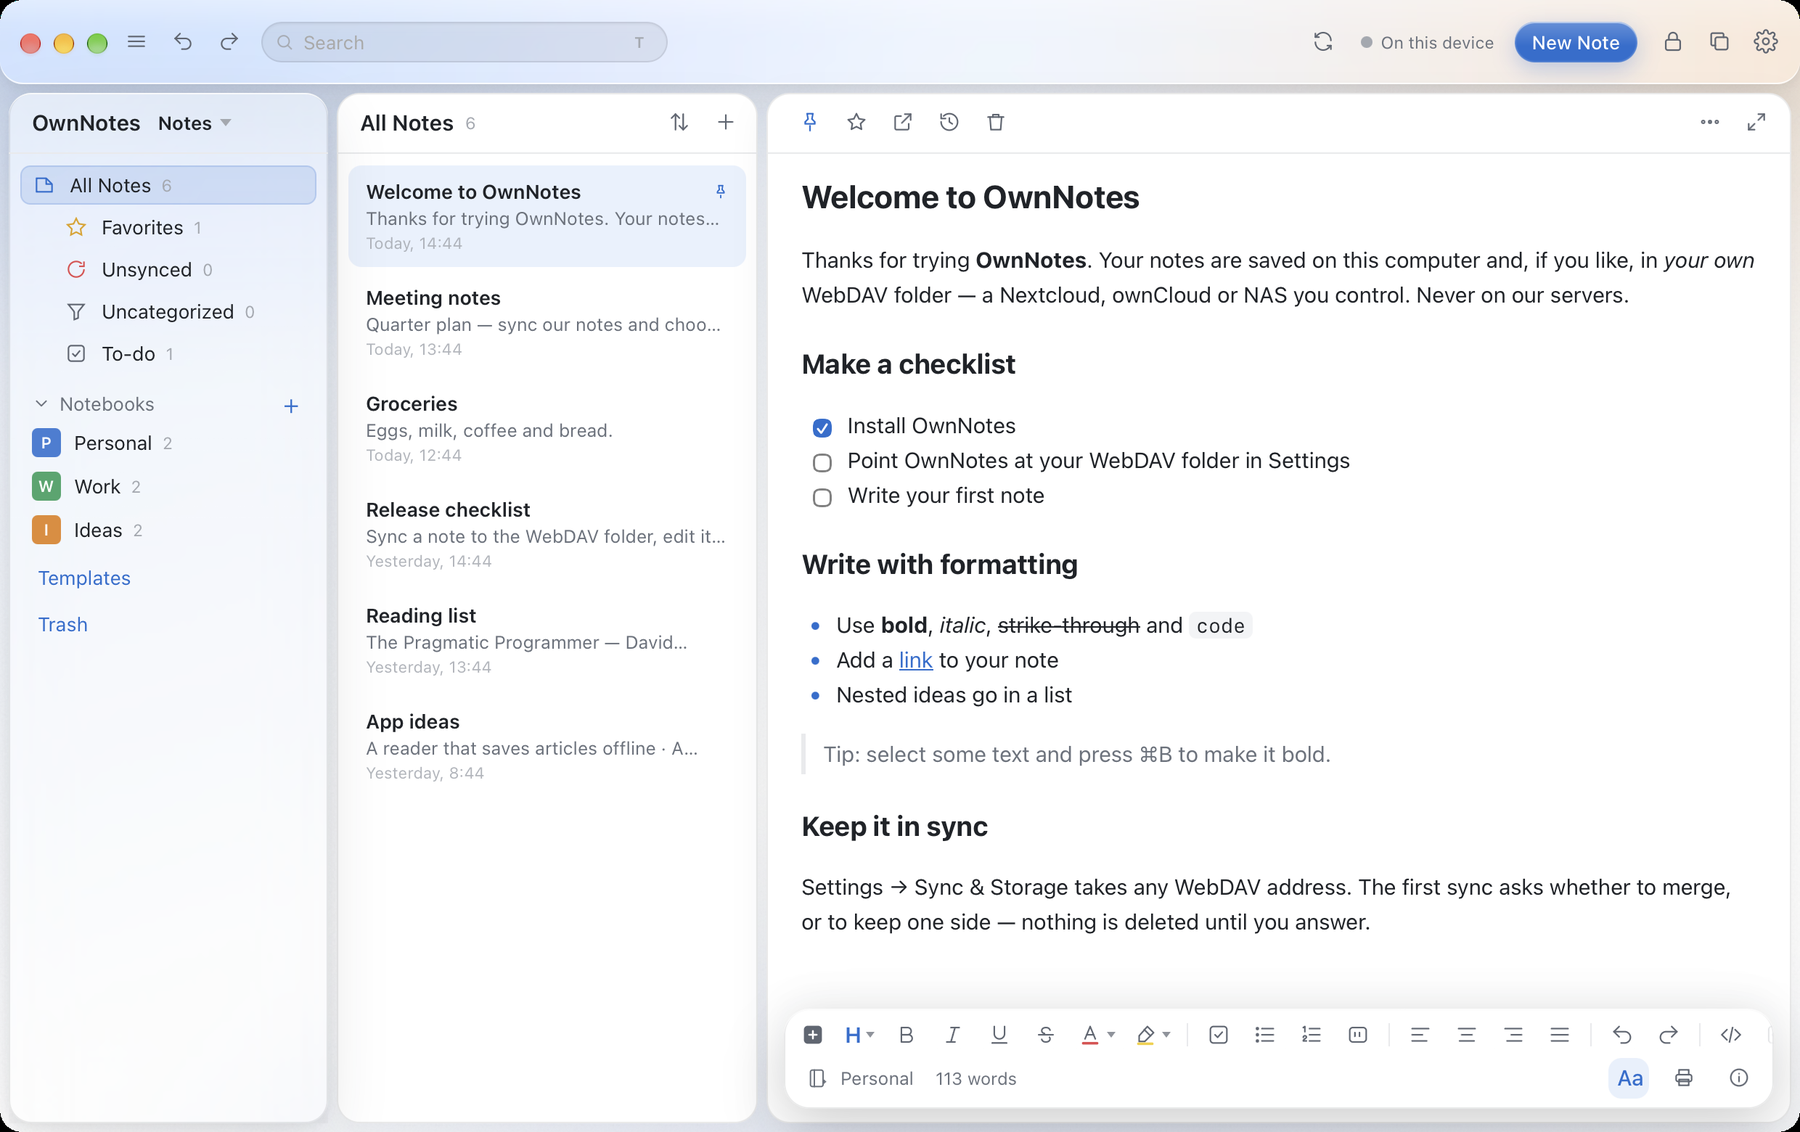
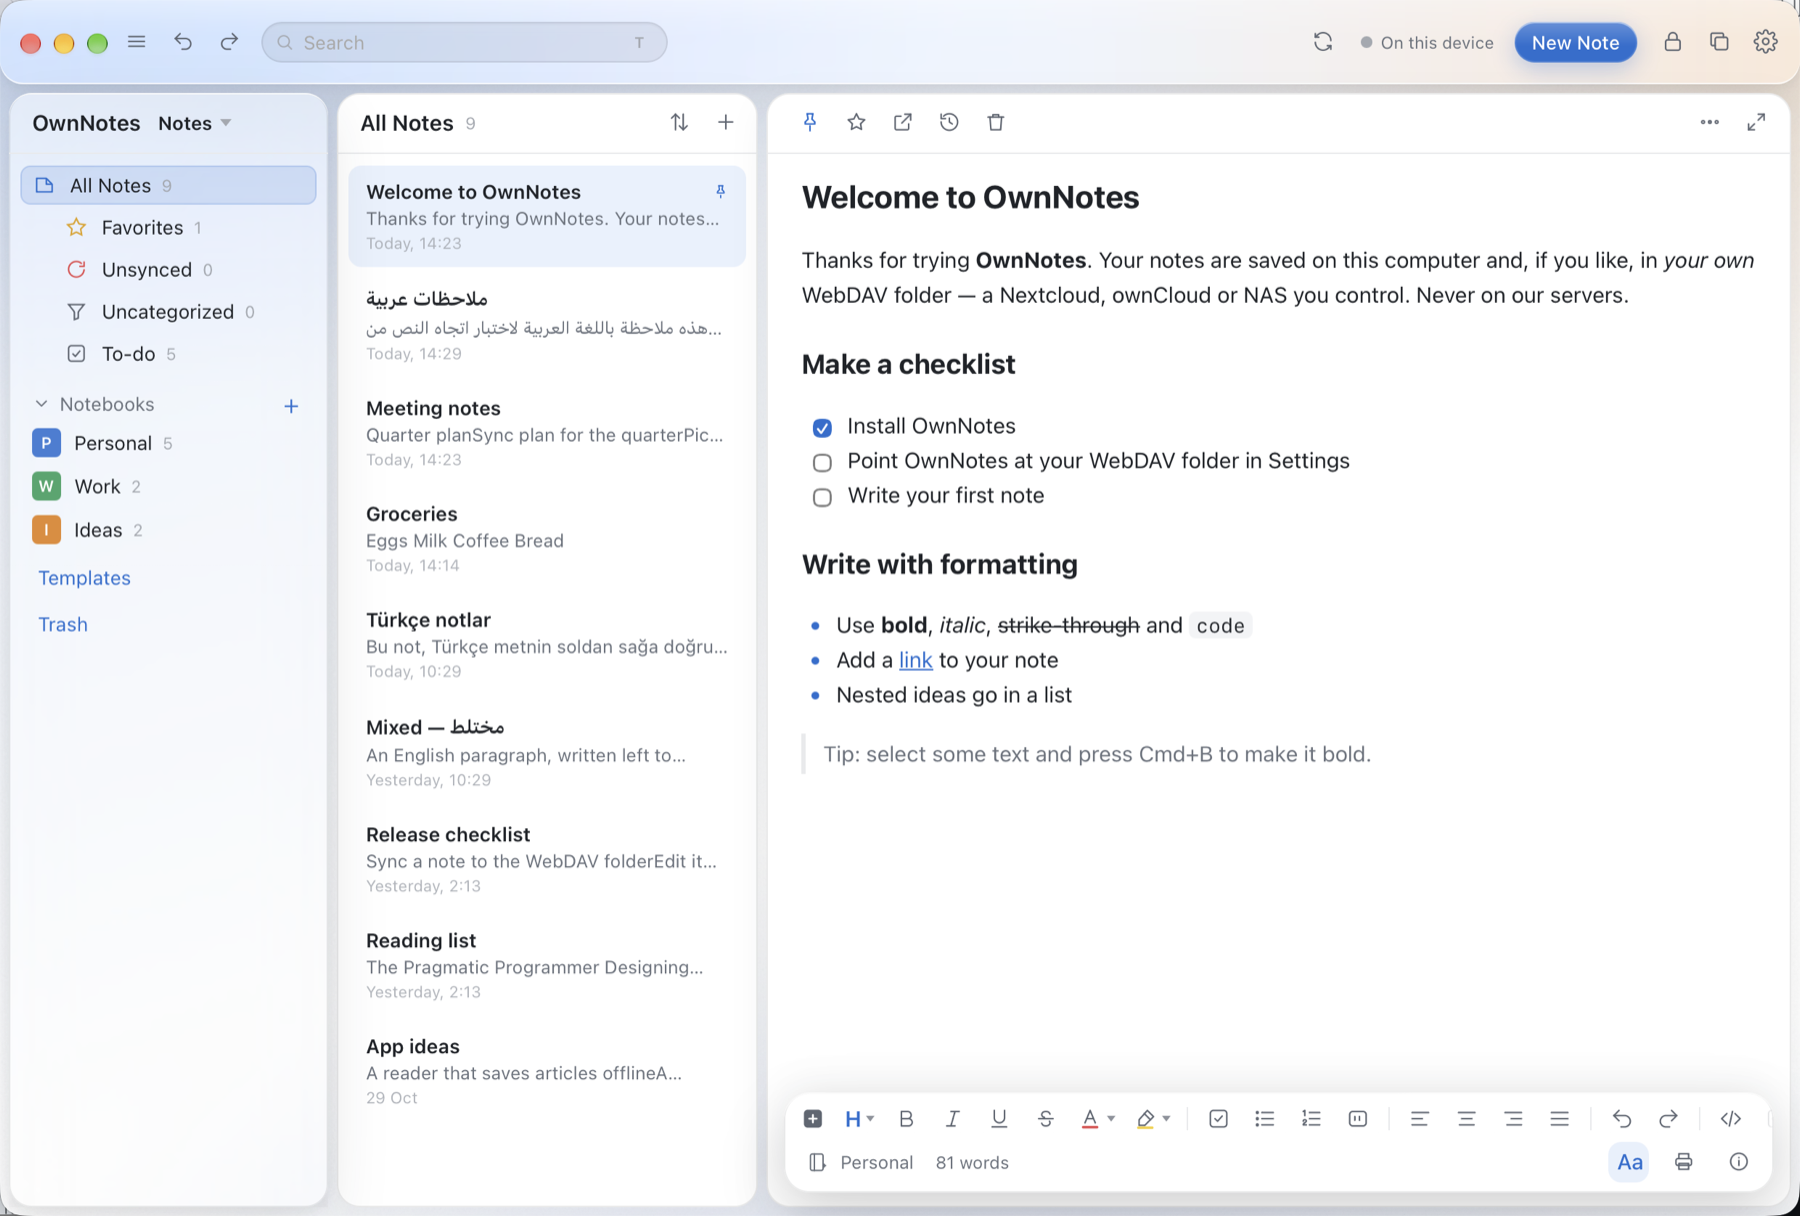
Refresh README with desktop and mobile screenshots
Add current iOS and Android captures, refresh the desktop capture with the
same nine sample notes, document the mobile apps and platform support, and
drop the left-to-right column from the language section. Update the test
count, build instructions, project layout and desktop-only tool notes.

diff --git a/README.md b/README.md
@@ -6,11 +6,16 @@
 
 <p align="center">
   <b>Notes that are files you own.</b><br/>
-  Rich text, right-to-left done properly, and sync through your own WebDAV folder — no account, no vendor, no lock-in.
+  Rich text, right-to-left support, and sync through your own WebDAV folder —
+  on macOS, Windows, Linux, iOS and Android. No account, no vendor, no lock-in.
 </p>
 
 <p align="center">
   <img alt="macOS" src="https://img.shields.io/badge/macOS-11%2B-black?logo=apple&logoColor=white" />
+  <img alt="Windows" src="https://img.shields.io/badge/Windows-10%2B-0078D4?logo=windows&logoColor=white" />
+  <img alt="Linux" src="https://img.shields.io/badge/Linux-FCC624?logo=linux&logoColor=black" />
+  <img alt="iOS" src="https://img.shields.io/badge/iOS-15%2B-000000?logo=apple&logoColor=white" />
+  <img alt="Android" src="https://img.shields.io/badge/Android-7%2B-3DDC84?logo=android&logoColor=white" />
   <img alt="Rust" src="https://img.shields.io/badge/Rust-2021-orange?logo=rust&logoColor=white" />
   <img alt="Tauri" src="https://img.shields.io/badge/Tauri-2-24C8DB?logo=tauri&logoColor=white" />
   <img alt="Languages" src="https://img.shields.io/badge/languages-6-4c8bf5" />
@@ -30,24 +35,31 @@ Koofr, a NAS, anything.
 notes/Work/note-4183.html      ← readable, syncable, yours
 ```
 
+The same Rust core and file format runs in the desktop app and in the iOS and
+Android apps. The desktop keeps its three-pane window; phones get a touch-first,
+one-pane layout with platform-specific navigation and chrome.
+
 ## 📸 Screenshots
 
 <p align="center">
-  <img src="docs/screenshots/app.png" width="900" alt="OwnNotes with a note open: sidebar, note list and rich text editor" />
+  <img src="docs/screenshots/app.png" width="900" alt="OwnNotes desktop with a note open: sidebar, note list and rich text editor" />
 </p>
 
 <p align="center">
-  <sub>Notes, notebooks, spaces and tags on the left; a note with checklists, colours,
-  quotes and the format bar on the right.</sub>
+  <sub>Desktop: the same sample notes as the phone screenshots, with the
+  notebook tree on the left and a rich note and the format bar on the right.</sub>
 </p>
-
-<!-- More screenshots welcome: drop the files in docs/screenshots and uncomment.
 
 <p align="center">
-  <img src="docs/screenshots/arabic.png" width="440" alt="Arabic interface, right to left" />
-  <img src="docs/screenshots/settings.png" width="440" alt="Sync settings" />
+  <img src="docs/screenshots/ios.png" width="300" alt="OwnNotes on iPhone with the iOS list, floating navigation and compose action" />
+  <img src="docs/screenshots/android.png" width="300" alt="OwnNotes on Android with the Material search bar, note list and bottom navigation" />
 </p>
--->
+
+<p align="center">
+  <sub>iPhone: native large titles, inset grouped lists, floating navigation and
+  a dedicated Search action. Android: Material 3 search, grouped notes,
+  floating navigation and compose button.</sub>
+</p>
 
 ## 🌟 Features
 
@@ -57,6 +69,23 @@ notes/Work/note-4183.html      ← readable, syncable, yours
 - **Collapsible sections**, **LaTeX** formulas rendered as MathML, **embedded videos**
 - **Images and files** — attachments stored beside the note and synced with it
 - **Markdown as you type** — `#`, `-`, `1.`, `>`, `- [ ]` convert on space
+- **One writing surface everywhere** — the same note editor, format bar and
+  autosave on desktop and phones
+
+### 📱 iPhone and Android
+- **Platform-specific layouts** — iOS large titles, inset grouped lists, a
+  floating glass navigation bar, a separate Search action and edge-swipe back;
+  Android follows Material 3 with a search bar, grouped notes, floating
+  navigation, compose action and tonal colours
+- **Touch-first structure** — Notes, Browse and Settings are bottom
+  destinations; iOS puts Search beside the bar, Android keeps the search field
+  above the list, and Browse stays navigable instead of covering the bar
+- **Keyboard-aware editor** — the format toolbar sits above the keyboard using
+  iOS's visual viewport and Android's IME/system-bar insets
+- **Safe areas and motion** — notches, home indicators, Android gesture bars,
+  reduced-motion support and platform-native sheets
+- **The same data and sync** — notebooks, tags, favourites, locks and WebDAV
+  sync carry over from the desktop app
 
 ### 🗂 Organising
 - 🗄 **Spaces** — separate universes of notes
@@ -78,23 +107,27 @@ notes/Work/note-4183.html      ← readable, syncable, yours
 - 🤝 First-sync decision: **merge**, **keep this computer**, or **keep the server**
 - 🕓 **Version history** with restore, **scheduled backups**, conflict copies
 - ⏱ Automatic sync on change and on an interval, plus a manual button and status
+- 📱 The same sync runs on desktop, iOS and Android; saved credentials use the
+  platform keychain/keystore
 
 ### 🌍 Languages
-| | |
-|---|---|
-| English | left to right |
-| **العربية** | **right to left — the whole interface mirrors** |
-| Türkçe · Deutsch · Polski · Français · Español | left to right |
+- English
+- **العربية** — the whole interface mirrors for right-to-left
+- Türkçe · Deutsch · Polski · Français · Español
 
 Note text follows its own language per paragraph, so one note can hold Arabic
-and English and each flows the right way.
+and English and each flows correctly.
 
 ### 📥 Import · 📤 Export
+On the desktop app:
 - **Import** from Evernote (`.enex`), Markdown, Simplenote (`.json`), Bear
   (`.bear` archives) and Apple Notes
 - **Export** to Markdown, HTML, Text, PNG (single or bulk), PDF, or print
 
-## ⌨ Shortcuts
+File import and export, print and backup tools are desktop-only for now; the
+phone apps focus on writing, organising and sync.
+
+## ⌨ Desktop shortcuts
 
 | | | | |
 |---|---|---|---|
@@ -102,25 +135,30 @@ and English and each flows the right way.
 | `⌘F` find in note | `⇧⌘F` focus mode | `⌘E` export | `⌘P` print / PDF |
 | `⌥⌘P` save as picture | `⇧⌘P` pin | `⇧⌘S` Quick Access | `⌘⌫` trash or restore |
 
+On Windows and Linux, use `Ctrl` instead of `⌘`.
+
 ## 🚀 Build
 
 Requires Rust and the [Tauri prerequisites](https://tauri.app/start/prerequisites/).
+Desktop builds are available for macOS, Windows and Linux. iOS needs Xcode;
+Android needs a JDK, the Android SDK and an NDK. The exact toolchains, data
+locations and generated project layout are in [docs/PLATFORMS.md](docs/PLATFORMS.md).
 
 ```bash
 git clone https://github.com/baraach/OwnNotes.git
 cd OwnNotes
-cargo run -p ownnotes-tauri           # development build
+cargo run -p ownnotes-tauri           # desktop development build
 ```
 
-A distributable app:
+A distributable desktop app:
 
 ```bash
 cargo install tauri-cli --version '^2'
 cd app-tauri/src-tauri && cargo tauri build
-# → target/release/bundle/macos/OwnNotes.app and OwnNotes_1.0.0_*.dmg
+# → target/release/bundle/<platform>/...
 ```
 
-Mobile builds use the same shared Rust core and interface:
+Phone builds use the same interface and core:
 
 ```bash
 cd app-tauri/src-tauri
@@ -128,8 +166,8 @@ cargo tauri ios build --debug --target aarch64-sim --no-sign
 cargo tauri android build --debug --target aarch64 --apk
 ```
 
-The iOS and Android toolchains, sandbox data locations and per-platform
-file layout are described in [docs/PLATFORMS.md](docs/PLATFORMS.md).
+These are simulator/emulator builds. Device, TestFlight and store builds need
+your own signing identity; see [docs/PLATFORMS.md](docs/PLATFORMS.md).
 
 ## 🧪 Tests
 
@@ -137,8 +175,15 @@ file layout are described in [docs/PLATFORMS.md](docs/PLATFORMS.md).
 cargo test --workspace
 ```
 
-Forty tests across the core, plus integration tests that start a real WebDAV
+57 tests across the core, plus integration tests that start a real WebDAV
 server to exercise attachment sync, and tests for every importer.
+
+The mobile UI shell has a [Maestro smoke flow](mobile-tests/smoke.yaml) used on
+the iOS simulator:
+
+```bash
+maestro test --device <simulator-udid> mobile-tests/smoke.yaml
+```
 
 ## 🗂 Project layout
 
@@ -148,13 +193,16 @@ app-tauri/src-tauri/          shared Tauri entry, state and commands
 app-tauri/src-tauri/src/platform/
                               macOS, Windows, Linux, iOS, Android layers
 app-tauri/ui/                 shared interface (no build step)
-app-tauri/ui/platform/        per-platform CSS corrections
+app-tauri/ui/platform/        desktop corrections and complete phone designs
 app-tauri/src-tauri/gen/apple/    Xcode project (iOS)
 app-tauri/src-tauri/gen/android/  Gradle project (Android)
+mobile-tests/                 mobile UI smoke flow
 ```
 
-See [docs/PLATFORMS.md](docs/PLATFORMS.md) for what belongs where and how to
-build each target.
+The iOS and Android layouts deliberately do not share a mobile stylesheet, so
+one platform's design cannot restyle the other. See
+[docs/PLATFORMS.md](docs/PLATFORMS.md) for what belongs where and how to build
+each target.
 
 ## 🧭 How a note is stored
 

diff --git a/docs/screenshots/README.md b/docs/screenshots/README.md
@@ -1,12 +1,17 @@
 # Screenshots
 
-`app.png` — the one used in the main README.
-
-More are welcome. Capture with **⇧⌘4** then **Space**, click the OwnNotes window,
-and save here with these names, then uncomment the block in the main README:
-
-| File | What to capture |
+| File | What it shows |
 |---|---|
-| `arabic.png` | the window with العربية chosen in Settings → General |
-| `settings.png` | Settings → Sync & Storage, with a server filled in |
-| `pinned.png` | Quick Access open with a pinned note |
+| `app.png` | Desktop: the three-pane window with the same sample notes as the phones |
+| `ios.png` | iPhone: large-title list, floating navigation and Search action |
+| `android.png` | Android: Material 3 search bar, note list and bottom navigation |
+
+The three files above are the ones used in the main README.
+
+## Capturing
+
+- Desktop: capture the OwnNotes window and save it as `app.png`.
+- iOS simulator: `xcrun simctl io booted screenshot docs/screenshots/ios.png`
+- Android emulator: `adb exec-out screencap -p > docs/screenshots/android.png`
+
+Keep the note list at the top and avoid test notes when refreshing these images.
